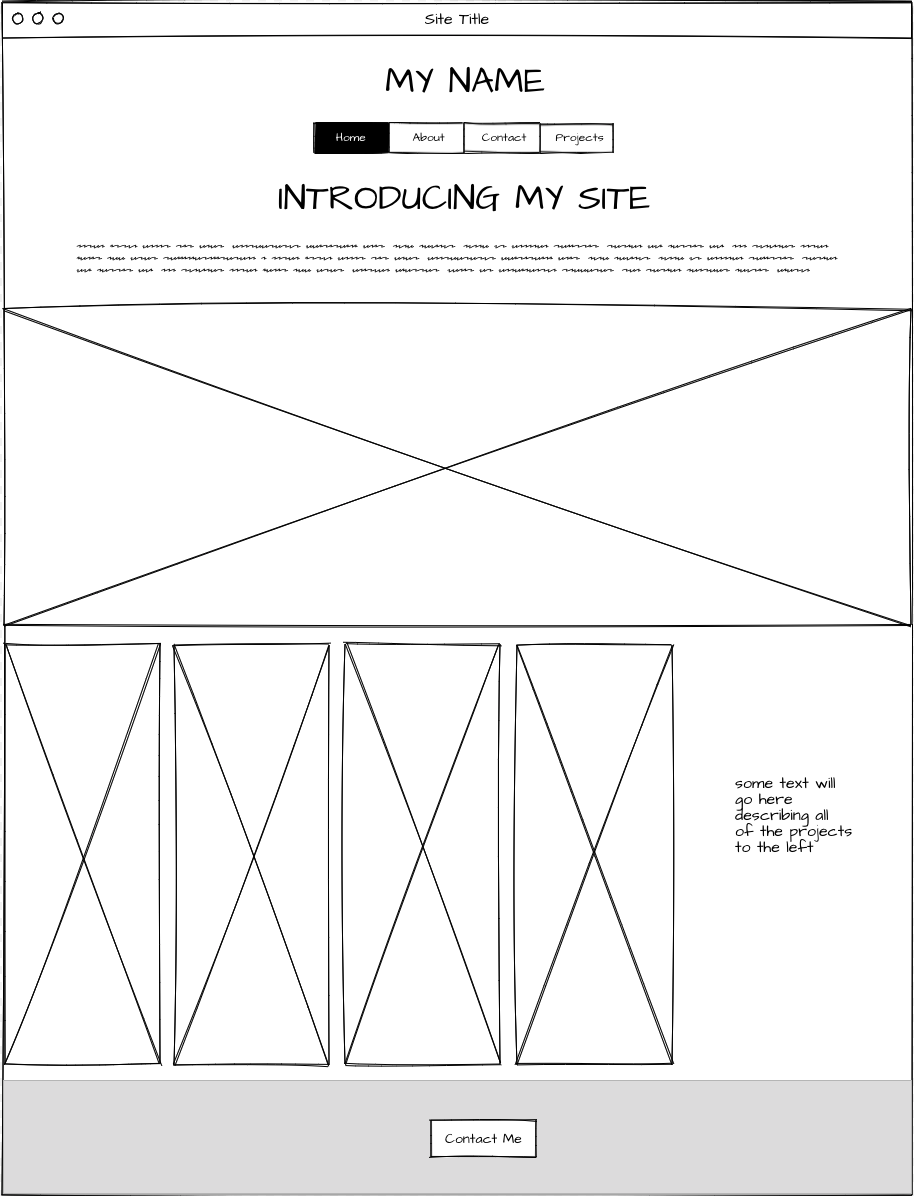
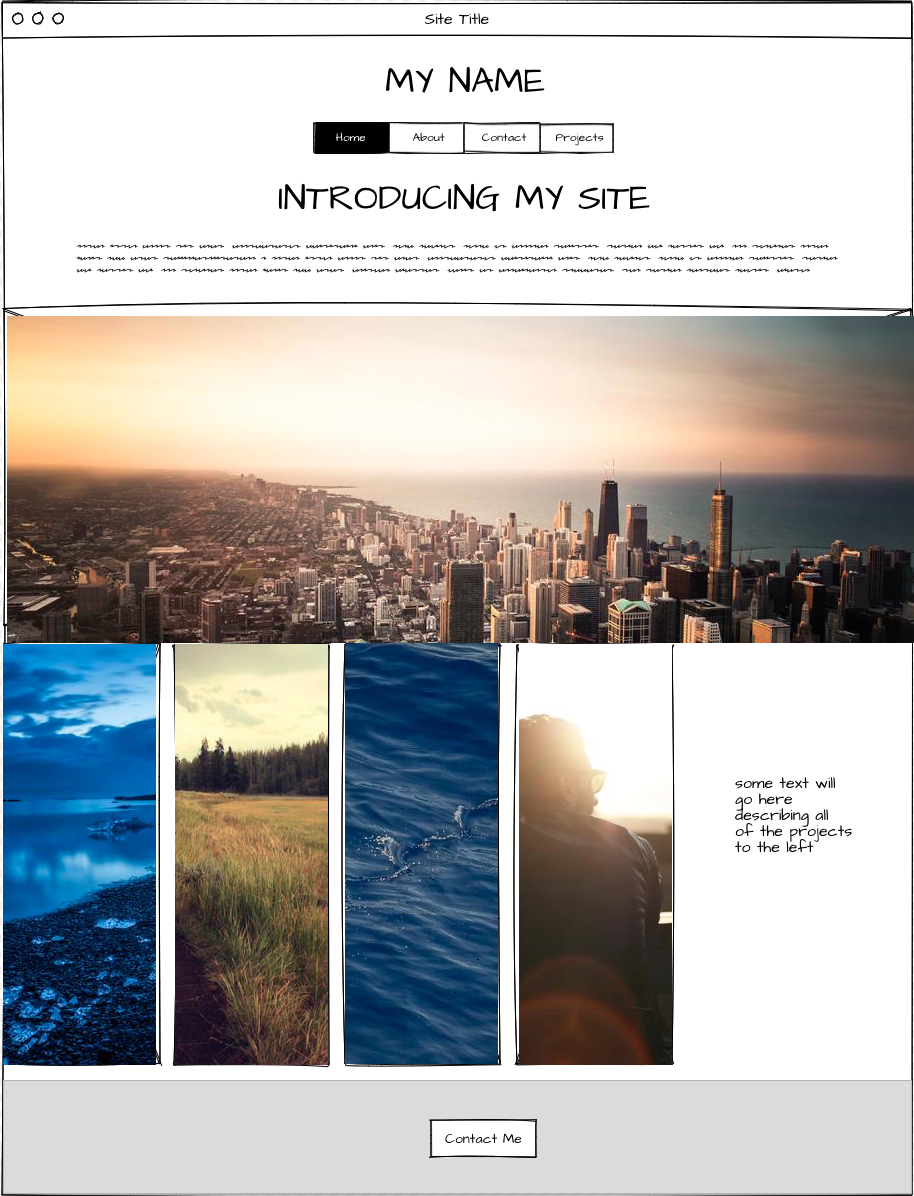
completed index.html for User Interface II

diff --git a/style/index.css b/style/index.css
@@ -1,1 +1,144 @@
-/* Add CSS styling here */
+html, body, div, span, applet, object, iframe,
+h1, h2, h3, h4, h5, h6, p, blockquote, pre,
+a, abbr, acronym, address, big, cite, code,
+del, dfn, em, img, ins, kbd, q, s, samp,
+small, strike, strong, sub, sup, tt, var,
+b, u, i, center,
+dl, dt, dd, ol, ul, li,
+fieldset, form, label, legend,
+table, caption, tbody, tfoot, thead, tr, th, td,
+article, aside, canvas, details, embed, 
+figure, figcaption, footer, header, hgroup, 
+menu, nav, output, ruby, section, summary,
+time, mark, audio, video {
+	margin: 0;
+	padding: 0;
+	border: 0;
+	font-size: 100%;
+	font: inherit;
+	vertical-align: baseline;
+}
+
+* {
+	background-color: black;
+}
+
+header {
+	color:white;
+	
+}
+
+h1 {
+	text-align: center;
+	font-size: 40px;
+	font-family: Trattatello;
+}
+
+nav ul {
+	display: flex;
+	justify-content: center;
+	list-style-type: none;
+	color: white;
+}
+
+a:link {
+	text-decoration: none;
+}
+
+a:visited {
+	color: white;
+	text-decoration: none
+}
+
+nav ul li {
+border: 1px solid white;
+color: white;
+padding: 1px;
+width: 75px;
+text-align: center;
+font-family: Arial, Helvetica, sans-serif;
+}
+
+h2 {
+	text-align: center;
+	font-size: 20px;
+	font-family: helvetica;
+	padding: 20px;
+}
+
+p {
+	font-family: helvetica;
+	font-size: 12px;
+	padding: 10px 30px 10px 30px;
+}
+
+.main-content {
+	color: white;
+	
+}
+
+.project-container {
+	display: flex;
+
+}
+
+.project1 {
+	background-image: url("beach.jpg");
+    height: 421px;
+	width: 153px;
+	margin: 0px  10px  0px 0px;
+}
+
+.project2 {
+	background-image: url("field.jpg");
+	height: 421px;
+	width: 153px;
+	margin: 0px  10px  0px 0px;
+}
+
+.project3 {
+	background-image: url("water.jpg");
+	height: 421px;
+	width: 153px;
+	margin: 0px  10px  0px 0px;
+}
+
+.project4 {
+	background-image: url("coolGuy.jpg");
+	height: 421px;
+	width: 153px;
+	margin: 0px  10px  0px 0px;
+}
+
+.projectDescription {
+	color: white;
+	
+}
+
+footer {
+	background-color: white;
+	display: flex;
+	justify-content: center;
+	padding: 10px;  
+}
+
+button {
+	background-color: white;
+	color: black;
+	border: 2px solid black; 
+	padding: 3px;
+	width: 75px;
+	font-family: Arial, Helvetica, sans-serif;
+}
+
+.inner-footer {
+	background-color: white;
+	display: flex;
+	
+}
+
+.socialNav {
+	background-color: white;
+	display: flex;
+	justify-content: center;
+}

diff --git a/index.html b/index.html
@@ -3,9 +3,54 @@
 <head>
     <meta charset="UTF-8">
     <meta name="viewport" content="width=device-width, initial-scale=1.0">
-    <title>Document</title>
+    <link rel="stylesheet" href="style/index.css">
+    
+<div class="container">
+    <title>Aaron Helton</title>
 </head>
 <body>
+    <div class=top-header>
+        <header>
+            <h1>Aaron Helton</h1>
+            <nav>
+                <ul>
+                    <li><a href=index.html>About</a></li>
+                    <li><a href=projects.html>Projects</a></li>
+                    <li><a href=contact.html>Contact</a></li>
+                </ul>
+            </nav>
+        </header>
+    </div>
+
+    <div class=main-content>
+        <h2>Introducing My Site</h2>
+        <p>I take great pride in being able to develope both front and back end full-stack web technology.
+            From user experience and graphical interfaces to server and database language-
+            I do it all.</p>
     
+            <img src="cityLine.jpg" alt="City Line, main content image">
+    </div>
+
+    <div class=project-container>
+        <div class=project1></div>
+        <div class=project2></div>
+        <div class=project3></div>
+        <div class=project4></div>
+        <div class=projectDescription><p>My current projects utalize Javascript, Python, and SQL.</p></div>
+
+    </div>
+
+    <footer>
+        <div class=inner-footer>
+            <button type="button" onclick="alert('Hello world!')">Contact Me</button>
+        
+        </div>
+        <div class="socialNav">
+            <a href="https://www.facebook.com"><img alt="Facebook" src="fbLogo.jpg" width="30px" height="30px">
+            <a href="https://www.linkedin.com"><img alt="Linkedin" src="inLogo.jpg" width="30px" height="30px">
+            <a href="https://www.github.com"><img alt="Github" src="ghLogo.jpg" width="30px" height="30px">
+        </div>    
+        
+    </footer>
 </body>
 </html>
